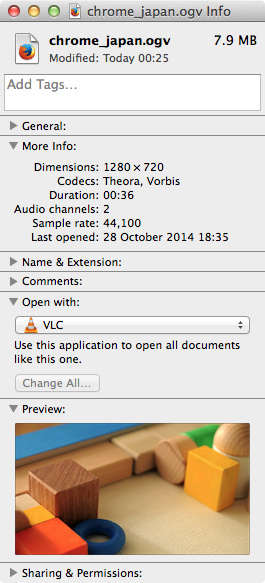
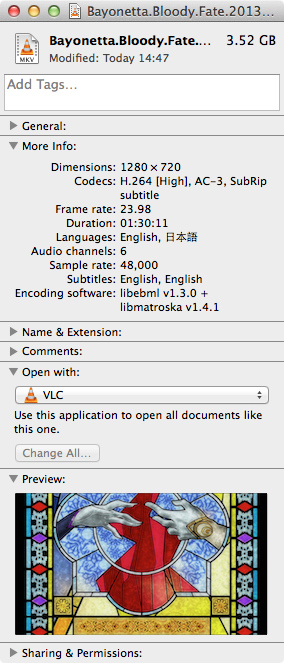
Display frame rate, language tracks & subtitle tracks in Finders's "Get Info" window.

diff --git a/mdimporter/GetMetadataForFile.m b/mdimporter/GetMetadataForFile.m
@@ -13,7 +13,8 @@
 
 
 // Custom attributes
-NSString *kMDItemVideoFrameRate = @"kMDItemVideoFrameRate";
+NSString *kFrameRate = @"uk_org_marginal_qlvideo_framerate";
+NSString *kSubtitles = @"uk_org_marginal_qlvideo_subtitles";
 
 
 Boolean die(CFStringRef pathToFile, int err)
@@ -29,6 +30,83 @@ Boolean die(CFStringRef pathToFile, int err)
     return false;
 }
 
+
+// Return localised language name from ISO639-2 tag in metadata, or nil.
+// https://developer.apple.com/library/mac/documentation/MacOSX/Conceptual/BPInternational/LanguageandLocaleIDs/LanguageandLocaleIDs.html
+NSString *GetLanguage(AVDictionary *metadata)
+{
+    @autoreleasepool
+    {
+        AVDictionaryEntry *tag = av_dict_get(metadata, "language", NULL, 0);
+        if (!tag || !strcmp(tag->value, "unk"))
+            return nil;
+
+        NSString *display = NULL;
+        NSString *lang = [NSString stringWithUTF8String:tag->value];
+        if (!strcmp(tag->value, "chi"))
+        {
+            // ISO639-2 can't differentiate between traditional and simplified chinese script, so look at track title
+            // http://www.loc.gov/standards/iso639-2/faq.html#23
+            // http://www.w3.org/International/articles/bcp47/#macro
+            AVDictionaryEntry *title_entry = av_dict_get(metadata, "title", NULL, 0);
+            if (title_entry)
+            {
+                NSString *title = [NSString stringWithUTF8String:title_entry->value];
+                if ([title rangeOfString:@"simplified" options:NSCaseInsensitiveSearch].location != NSNotFound ||
+                    [title rangeOfString:@"简体"].location != NSNotFound)
+                    display = @"简体中文";
+                else if ([title rangeOfString:@"traditional" options:NSCaseInsensitiveSearch].location != NSNotFound ||
+                         [title rangeOfString:@"繁體"].location != NSNotFound)
+                    display = @"繁體中文";
+            }
+        }
+        else if (!strcmp(tag->value, "spa"))
+        {
+            // ISO639-2 can't differentiate between Spanish as spoken in Spain and in Latin America
+            AVDictionaryEntry *title_entry = av_dict_get(metadata, "title", NULL, 0);
+            if (title_entry)
+            {
+                NSString *title = [NSString stringWithUTF8String:title_entry->value];
+                if (!strcmp(title_entry->value, "eur") || !strcmp(title_entry->value, "spa") ||
+                    [title rangeOfString:@"españa" options:NSCaseInsensitiveSearch|NSDiacriticInsensitiveSearch].location != NSNotFound)
+                    lang = @"es-ES";
+                else if (!strcmp(title_entry->value, "lat") ||
+                        [title rangeOfString:@"latino" options:NSCaseInsensitiveSearch].location != NSNotFound)
+                    lang = @"es-419";
+            }
+        }
+        else if (!strcmp(tag->value, "por"))
+        {
+            // ISO639-2 can't differentiate between Portuguese as spoken in Portugal and in Brazil
+            AVDictionaryEntry *title_entry = av_dict_get(metadata, "title", NULL, 0);
+            if (title_entry)
+            {
+                NSString *title = [NSString stringWithUTF8String:title_entry->value];
+                if (!strcmp(title_entry->value, "eur") || !strcmp(title_entry->value, "por") ||
+                    [title rangeOfString:@"portugal" options:NSCaseInsensitiveSearch].location != NSNotFound)
+                    lang = @"pt-PT";
+                else if (!strcmp(title_entry->value, "lat") || !strcmp(title_entry->value, "bra") ||
+                         [title rangeOfString:@"brasil" options:NSCaseInsensitiveSearch].location != NSNotFound)
+                    lang = @"pt-BR";
+            }
+        }
+
+        if (!display)
+        {
+            // We don't get access to the user's preferred language (and we don't have an opportunity to update the
+            // Spotlight metadata if it changes) so return each language in its language if possible.
+            NSLocale *locale = [NSLocale localeWithLocaleIdentifier:lang];
+            display = [locale displayNameForKey:NSLocaleIdentifier value:[locale localeIdentifier]];    // can be nil
+
+            if (display)
+                display = [display capitalizedString];  // for consistency
+            else
+                display = lang; // just return the ISO639-2 code
+        }
+
+        return display;
+    }
+}
 
 //==============================================================================
 //
@@ -74,6 +152,7 @@ Boolean GetMetadataForFile(void *thisInterface, CFMutableDictionaryRef attribute
         NSMutableArray *codecs =     [[NSMutableArray alloc] init];
         NSMutableArray *mediatypes = [[NSMutableArray alloc] init];
         NSMutableArray *languages =  [[NSMutableArray alloc] init];
+        NSMutableArray *subtitles =  [[NSMutableArray alloc] init];
 
         // From the container
         if (fmt_ctx->bit_rate > 0)
@@ -94,7 +173,7 @@ Boolean GetMetadataForFile(void *thisInterface, CFMutableDictionaryRef attribute
             else if (!strcasecmp(tag->key, "artist"))
                 [attrs setValue:[NSString stringWithUTF8String:tag->value] forKey:(__bridge NSString *)kMDItemAuthors];
             else if (!strcasecmp(tag->key, "comment"))
-                [attrs setValue:[NSString stringWithUTF8String:tag->value] forKey:(__bridge NSString *)kMDItemDescription];
+                [attrs setValue:[NSString stringWithUTF8String:tag->value] forKey:(__bridge NSString *)kMDItemComment];
             else if (!strcasecmp(tag->key, "composer"))
                 [attrs setValue:[NSString stringWithUTF8String:tag->value] forKey:(__bridge NSString *)kMDItemComposer];
             else if (!strcasecmp(tag->key, "copyright"))
@@ -115,8 +194,6 @@ Boolean GetMetadataForFile(void *thisInterface, CFMutableDictionaryRef attribute
                 [attrs setValue:[NSString stringWithUTF8String:tag->value] forKey:@"kMDItemAlternateNames"];
             else if (!strcasecmp(tag->key, "genre"))
                 [attrs setValue:[NSString stringWithUTF8String:tag->value] forKey:(__bridge NSString *)kMDItemGenre];
-            else if (!strcasecmp(tag->key, "language"))
-                [attrs setValue:[NSString stringWithUTF8String:tag->value] forKey:(__bridge NSString *)kMDItemLanguages];
             else if (!strcasecmp(tag->key, "performers"))
                 [attrs setValue:[NSString stringWithUTF8String:tag->value] forKey:(__bridge NSString *)kMDItemPerformers];
             else if (!strcasecmp(tag->key, "publisher"))
@@ -163,9 +240,9 @@ Boolean GetMetadataForFile(void *thisInterface, CFMutableDictionaryRef attribute
                     [attrs setValue:[NSNumber numberWithInt:dec_ctx->channels] forKey:(__bridge NSString *)kMDItemAudioChannelCount];
                 if (dec_ctx->sample_rate > 0 && ![attrs objectForKey:(__bridge NSString *)kMDItemAudioSampleRate])
                     [attrs setValue:[NSNumber numberWithInt:dec_ctx->sample_rate] forKey:(__bridge NSString *)kMDItemAudioSampleRate];
-                AVDictionaryEntry *lang = av_dict_get(stream->metadata, "language", NULL, 0);
-                if (lang && strcasecmp(lang->value, "und"))
-                    [languages addObject:[NSString stringWithUTF8String:lang->value]];
+                NSString *lang = GetLanguage(stream->metadata);
+                if (lang)
+                    [languages addObject:lang];
                 [mediatypes addObject:@"Sound"];
             }
             else if (dec_ctx->codec_type == AVMEDIA_TYPE_VIDEO)
@@ -182,19 +259,25 @@ Boolean GetMetadataForFile(void *thisInterface, CFMutableDictionaryRef attribute
                     else
                         [attrs setValue:[NSNumber numberWithInt:dec_ctx->width] forKey:(__bridge NSString *)kMDItemPixelWidth];
                 }
-                if (![attrs objectForKey:kMDItemVideoFrameRate])
+                if (![attrs objectForKey:kFrameRate])
                 {
                     if (stream->avg_frame_rate.den && stream->avg_frame_rate.num)
                         [attrs setValue:[NSNumber numberWithDouble:round((stream->avg_frame_rate.num * 100) / (double) stream->avg_frame_rate.den) / 100.]
-                                 forKey:kMDItemVideoFrameRate];
+                                 forKey:kFrameRate];
                     else if (stream->r_frame_rate.den && stream->r_frame_rate.num)
                         [attrs setValue:[NSNumber numberWithDouble:round((stream->r_frame_rate.num   * 100) / (double) stream->r_frame_rate.den)   / 100.]
-                                 forKey:kMDItemVideoFrameRate];
+                                 forKey:kFrameRate];
                 }
                 [mediatypes addObject:@"Video"];
             }
             else if (dec_ctx->codec_type == AVMEDIA_TYPE_SUBTITLE)
             {
+                if (stream->disposition & AV_DISPOSITION_FORCED)
+                    continue;   // Don't count forced subtitiles since they're effectively part of the video
+
+                NSString *lang = GetLanguage(stream->metadata);
+                if (lang)
+                    [subtitles addObject:lang];
                 [mediatypes addObject:@"Text"];
             }
             else
@@ -226,8 +309,18 @@ Boolean GetMetadataForFile(void *thisInterface, CFMutableDictionaryRef attribute
         if ([mediatypes count])
             [attrs setValue:mediatypes forKey:(__bridge NSString *)kMDItemMediaTypes];
 
+        // If the streams don't contain any language info, look in the container
+        if (![languages count])
+        {
+            NSString *lang = GetLanguage(fmt_ctx->metadata);
+            if (lang)
+                [languages addObject:lang];
+        }
         if ([languages count])
             [attrs setValue:languages forKey:(__bridge NSString *)kMDItemLanguages];
+
+        if ([subtitles count])
+            [attrs setValue:subtitles forKey:kSubtitles];
 
         avformat_close_input(&fmt_ctx);
     }
